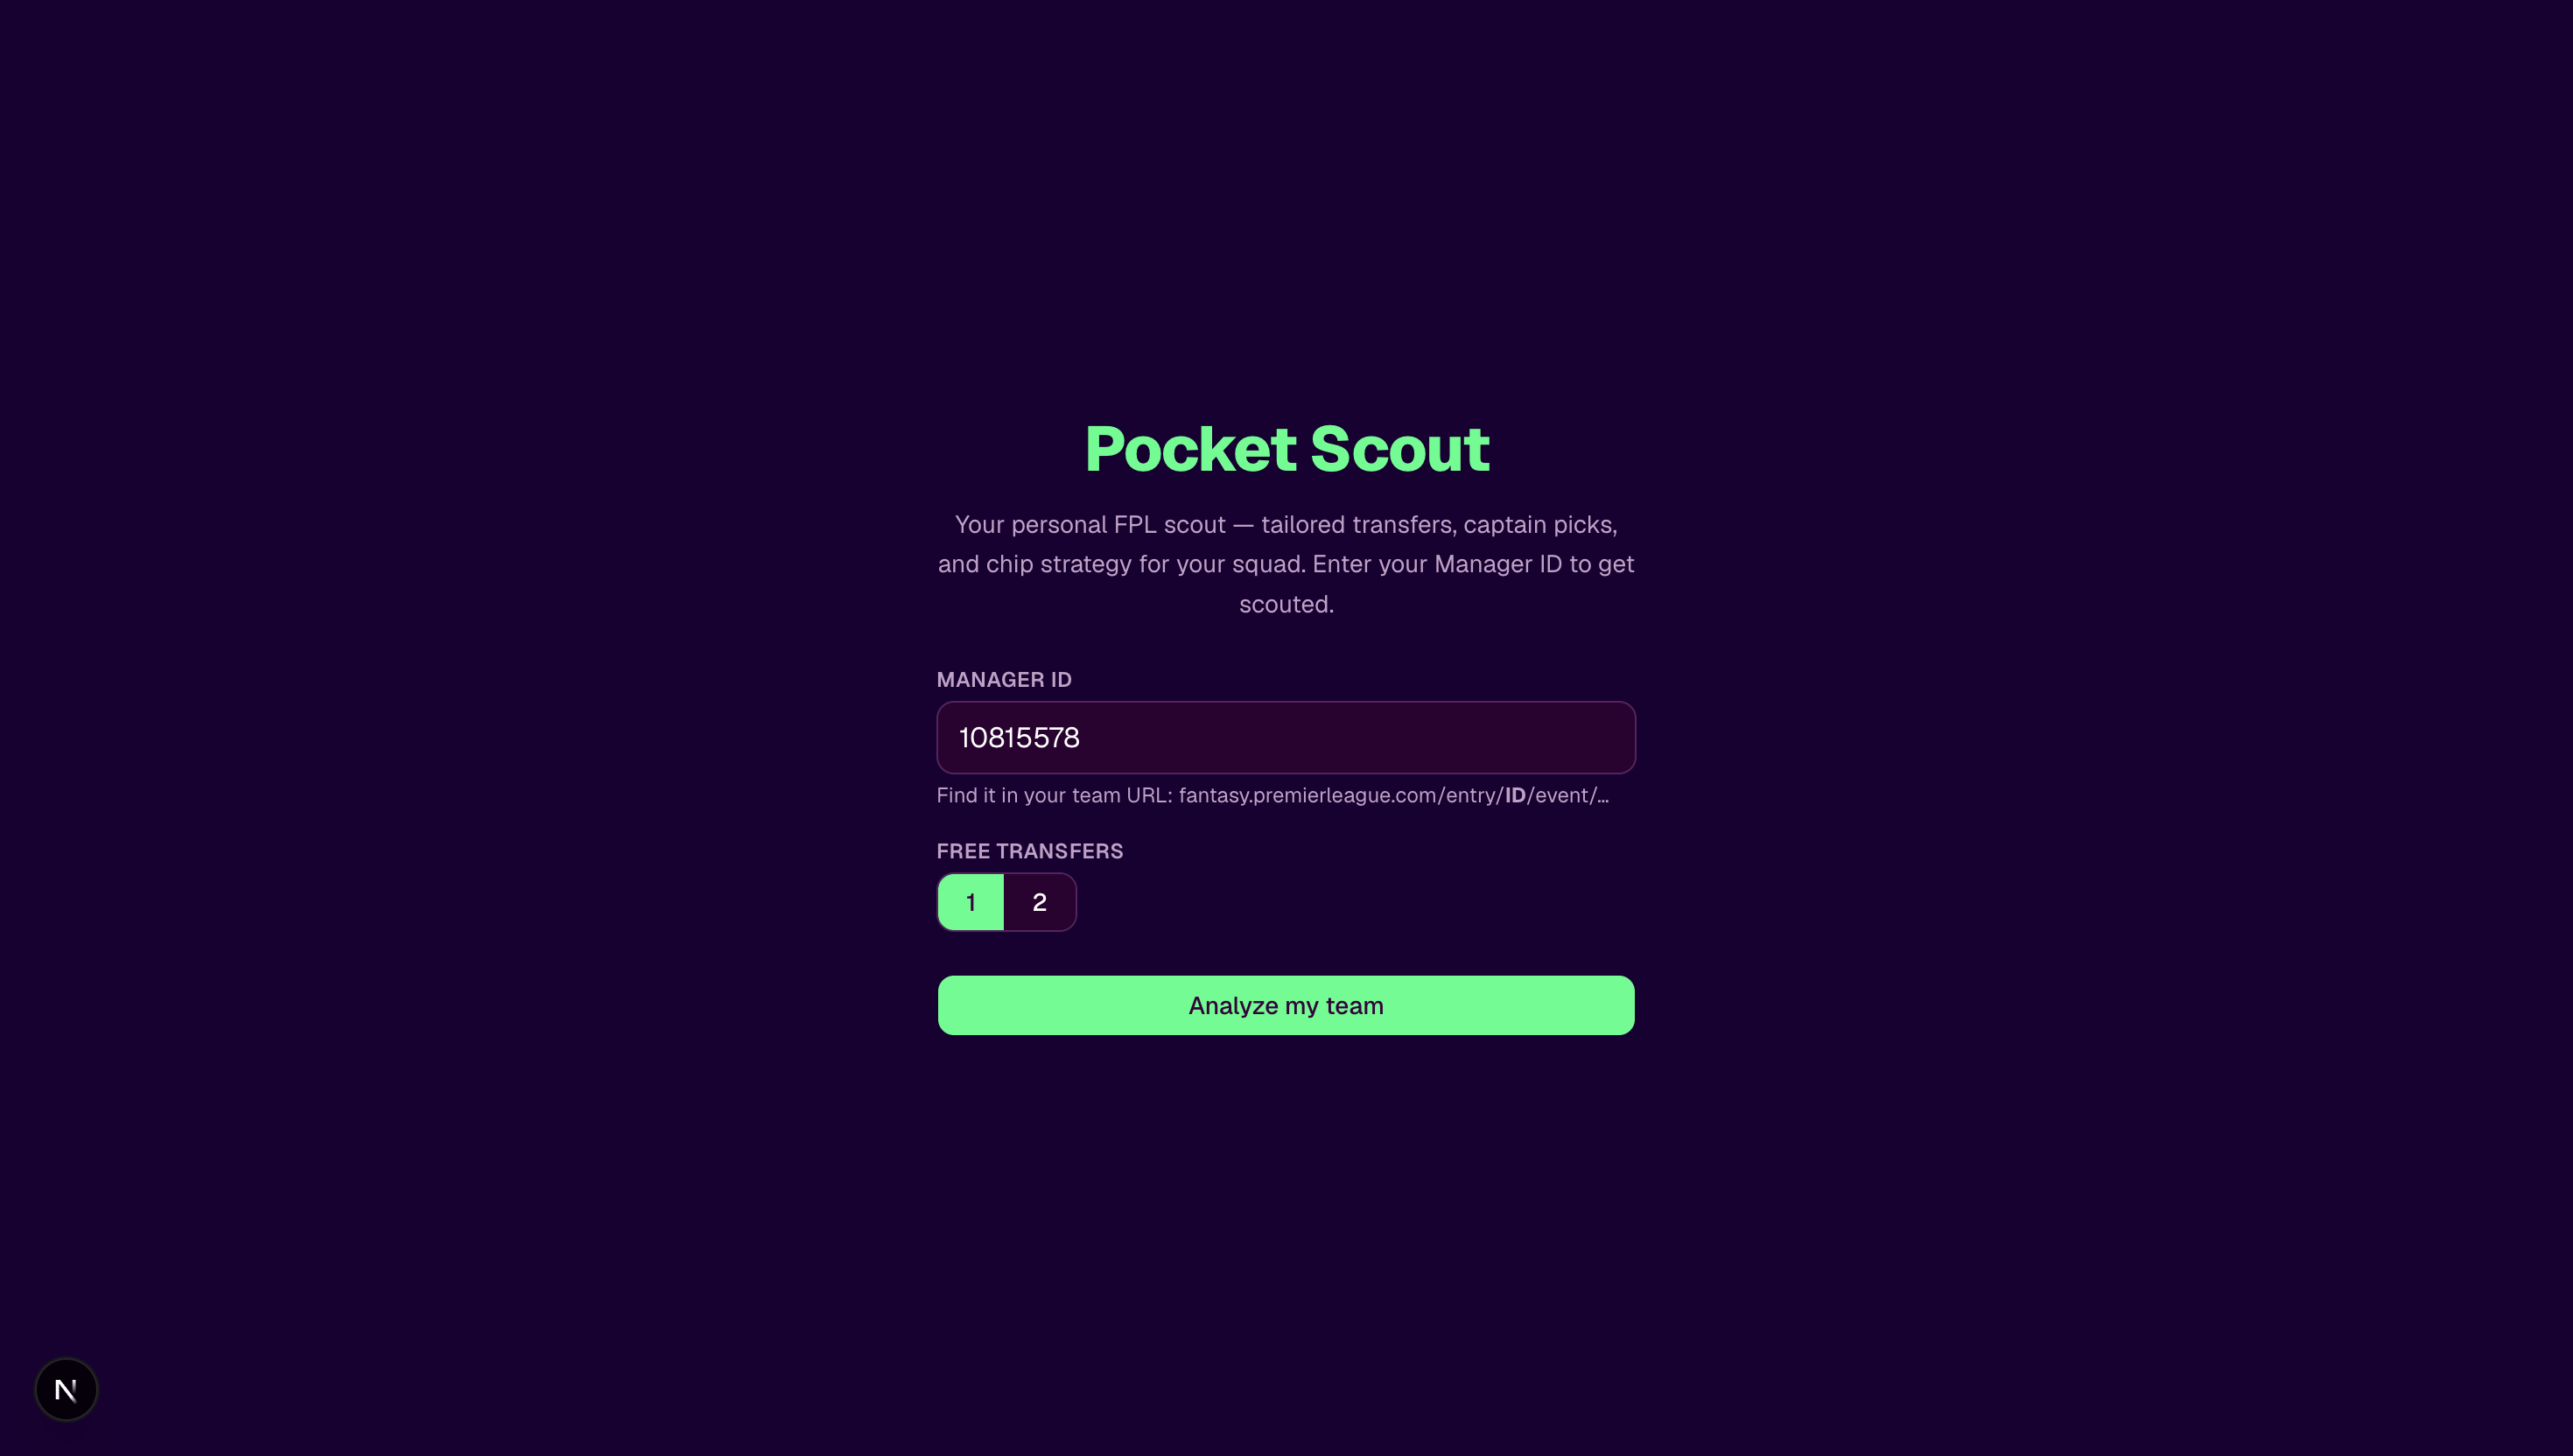
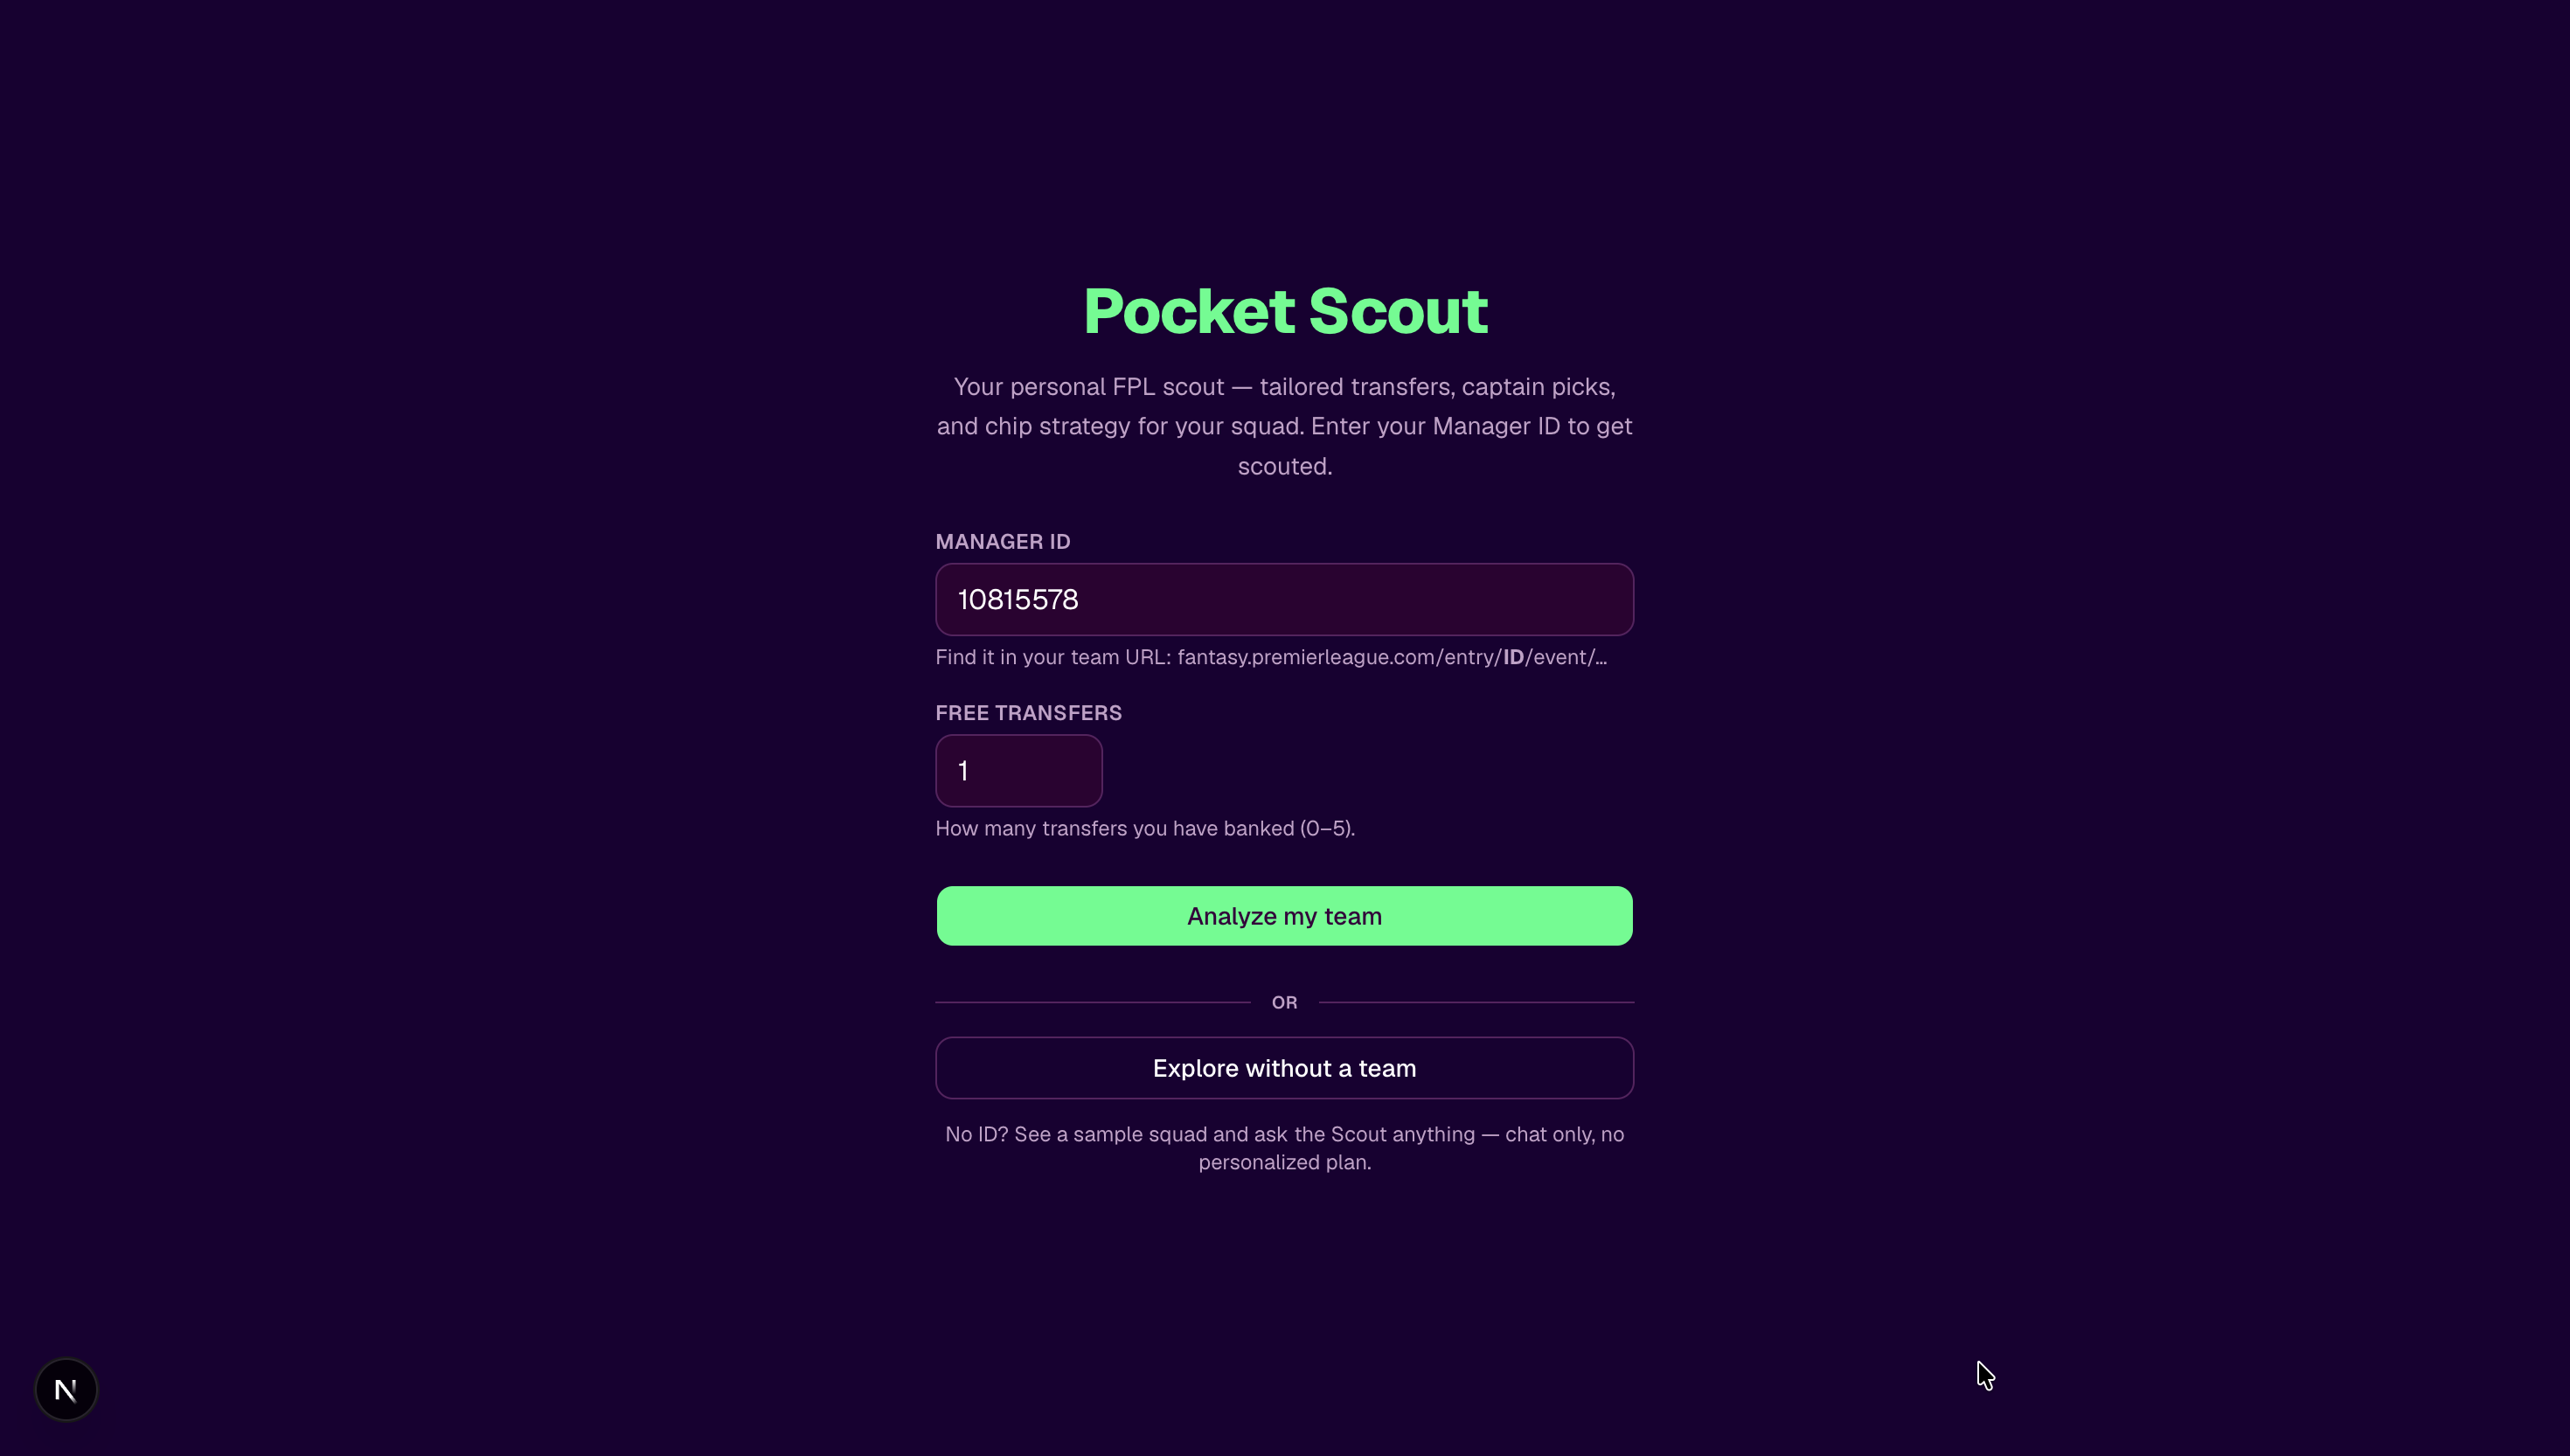
docs: reframe README as a product pitch; refresh for the final branch state
- README leads with the FPL manager's weekly pain → the promise of a
  personalized, educated, deterministic scout → the three differentiators
  (knows your 0–5 free transfers, holds rather than churns, shows its work).
- Reflect the shipped behaviour: 0–5 free transfers, up to N stacked moves,
  ep-native restructure chosen by an optimal allocation (drops the stale
  1-or-2 toggle / single-move / composite-restructure copy); test count → 331.
- ARCHITECTURE: optimizer paragraph rewritten to the optimal ep allocation
  (swaps cost 1, restructures cost 2; feasibility-checked) + FT 0–5 cache key.
- EVALUATION: the hold-gate currency now governs the whole N-move allocation.
- Screenshots refreshed: new hero/this-week/free-transfers/demo-mode, two
  scout-chat shots making the grounded "no hallucination, no prompt injection"
  point, plus login + player dialog; dropped chips/long-term/chat-continued.

Adds the docs-product-pitch OpenSpec change.

Changed region(s): [[0.3405, 0.1875, 0.65, 0.8125]]

diff --git a/openspec/changes/docs-product-pitch/design.md b/openspec/changes/docs-product-pitch/design.md
@@ -1,0 +1,61 @@
+# Design — docs as a product pitch
+
+## The story arc (README)
+Pitch it the way a PM would to an FPL player, in this order:
+
+1. **The pain (open here).** Every gameweek the same dread: one transfer, a captain pick, a chip you're
+   scared to waste — and the deadline ticking. So you crowd-source it: group chats, Reddit, ten tabs of
+   contradictory "templates," none of which know *your* squad, your bank, your free transfers, or your
+   chips. You make the call on a hunch and find out on Saturday.
+2. **The promise.** Pocket Scout is your **personal scout**: enter your manager ID and it reads *your*
+   team and tells you the highest-leverage move this week — transfers, captain, chips — and **explains
+   why**, like a pundit breaking down a game. It's **personalized** (your squad, your bank, the exact
+   number of free transfers you're holding), **educated** (grounded in expert FPL principles and the live
+   rules), and **deterministic** (the maths is reproducible — same squad, same answer — not an LLM
+   guessing).
+3. **How it's different (the wedge).** Three things generic tools don't do:
+   - **It knows your constraints.** Tell it you have 0–5 free transfers; it plans *within that budget* —
+     up to N stacked moves, or a sell-to-fund-a-dream **restructure** when that's the smarter play — and
+     **banks** a transfer rather than burn it on a marginal move.
+   - **It holds when holding is right.** Every move is judged in **expected points**; if nothing clears the
+     bar it tells you to roll — the opposite of the churn most tools encourage.
+   - **It shows its work.** A deterministic 0–10 model does the maths; the Scout chat fetches *real* numbers
+     via tools, so it never invents a stat or contradicts the panels.
+4. **The proof.** Eval-first: fit-from-data ranking (~0.33 → ~0.53), a replay that caught the optimizer
+   over-recommending (→ the hold gate), and a measured **no-ship**. Link `EVALUATION.md`.
+5. **Try it.** Quickstart + "Explore without a team."
+
+Keep the existing voice (Pocket Scout, pundit's eye) and the architecture-at-a-glance mermaid; the change
+is the **framing and the lead**, plus correctness.
+
+## Factual updates (reflect the final branch state)
+- **Free transfers.** Everywhere that says a 1-or-2 toggle → **a 0–5 field** ("tell it how many free
+  transfers you actually have"). The recommendation is **up to N stacked free moves** ("Make N free
+  transfers"), not a single move.
+- **Restructure.** Recast from a composite "net" to **expected points**, and note it's now **chosen by the
+  allocator** — a restructure enters the primary plan when its ep beats straight swaps; otherwise it's
+  listed as an alternative, priced against the **free transfers remaining** after the recommended moves.
+- **ARCHITECTURE.md** optimizer section (`~line 48`): describe the **optimal free-transfer allocation**
+  (swaps cost 1, restructures cost 2; max expected-points-net-of-banking within the FT budget; feasibility
+  for bank/3-per-club/distinct players) replacing "ranks candidate transfers … also computes restructure
+  chains". Cache key note already reads `…:freeTransfers:…` — clarify FT is 0–5.
+- **EVALUATION.md**: keep the hold-gate story; add a line that the same ep bar now governs **multi-move
+  allocation and restructures** (one consistent expected-points currency). Update the test count.
+- **Test count**: README "Vitest (NNN tests)" → current (**331**).
+
+## Screenshots (supplied by the user)
+Capture on one manager, same viewport as the existing GW38 set, ideally with **3+ free transfers** so the
+multi-move story shows. New/updated files (referenced as placeholders until supplied):
+- `fpl-advisor-hero.png` (**update**) — landing: verdict bar showing a multi-move summary
+  ("… +N more transfers"), the **FT field** with a value like 3, pitch + Ask The Scout.
+- `fpl-advisor-this-week.png` (**update**) — This Week with **"Make N free transfers"** (several
+  out→in lines) + Captaincy + Chip + the **Restructure** row reading "net pts gain +X · −N pts".
+- `fpl-advisor-free-transfers.png` (**new**) — close-up of the Header **0–5 free-transfer field**, ideally
+  showing the inline "Enter a value between 0 and 5" guard (the personalization + guardrail beat).
+- `fpl-advisor-demo-mode.png` — still the outstanding placeholder (Explore-without-a-team view).
+
+The rest of the set (chat-continued, player-dialog, chips, long-term, login) is reusable as-is.
+
+## Note
+Docs-only; no behaviour changes. The screenshots are the only blocker to a fully-final README, so the
+implementation lands the prose with placeholders and a clear "supply these" list.

diff --git a/openspec/changes/docs-product-pitch/specs/docs-product-pitch/spec.md b/openspec/changes/docs-product-pitch/specs/docs-product-pitch/spec.md
@@ -1,0 +1,49 @@
+## ADDED Requirements
+
+### Requirement: The README leads as a product pitch
+The README SHALL open by framing the FPL manager's weekly pain and Pocket Scout's promise — a personalized,
+educated, deterministic scout for the reader's own team — before the feature list and engineering detail,
+so a player (not only an engineer) understands the value in the first screen.
+
+#### Scenario: A player reads the top of the README
+- **WHEN** an FPL manager opens the README
+- **THEN** the first section names the pain (the weekly transfer/captain/chip decision, made on hunches and
+  conflicting takes) and the promise (a scout that reads *your* squad and explains *why*), and only then
+  proceeds to features and architecture
+
+#### Scenario: The pitch names the three differentiators
+- **WHEN** the pitch explains how Pocket Scout differs from generic tools
+- **THEN** it states that it plans within the manager's real constraints (0–5 free transfers, stacked moves
+  or a restructure), holds/banks rather than churns (expected-points gate), and shows its work (a
+  deterministic model plus tool-grounded chat that never invents numbers)
+
+### Requirement: The docs reflect the final state of this branch
+Every doc SHALL describe the shipped behaviour — a 0–5 free-transfer input, up to N stacked free moves, and
+an ep-native restructure chosen by an optimal allocation — with no stale references to a 1-or-2 toggle, a
+single-move recommendation, or a composite-scored restructure.
+
+#### Scenario: Free transfers are described as 0–5 with multi-move output
+- **WHEN** the docs describe the transfer input and recommendation
+- **THEN** they state the manager enters 0–5 free transfers and the Scout recommends up to that many stacked
+  moves (or a restructure), not a 1-or-2 toggle producing a single move
+
+#### Scenario: Restructure is described in expected points and as part of the allocation
+- **WHEN** the docs describe the Restructure feature
+- **THEN** they describe it in expected points, chosen into the primary plan when it out-projects straight
+  swaps, and otherwise listed as an alternative priced against the remaining free transfers
+
+#### Scenario: The architecture and eval docs and the test count are current
+- **WHEN** ARCHITECTURE.md and EVALUATION.md describe the optimizer and the test suite
+- **THEN** the optimizer section describes the optimal free-transfer allocation (swaps cost 1, restructures
+  cost 2; max expected-points-net within the budget; feasibility-checked), the eval doc notes the same ep
+  bar governs the allocation, and the stated test count matches the suite
+
+### Requirement: The screenshot set shows the new surfaces
+The image catalog SHALL reference screenshots that show this branch's features, and any not yet supplied
+SHALL be marked as placeholders so the docs are internally consistent.
+
+#### Scenario: New/updated screenshots are catalogued
+- **WHEN** the docs reference screenshots
+- **THEN** the catalog includes an updated hero (verdict bar with a multi-move summary and the 0–5 FT
+  field), an updated This Week ("Make N free transfers" plus the ep-native Restructure row), and a new
+  close-up of the 0–5 free-transfer field — each either present or clearly marked "to be supplied"

diff --git a/openspec/changes/docs-product-pitch/proposal.md b/openspec/changes/docs-product-pitch/proposal.md
@@ -1,0 +1,38 @@
+# Docs as a product pitch — tell the Pocket Scout story, at the final state of this branch
+
+## Why
+Two gaps. First, the docs predate this branch's transfer overhaul: the README/ARCHITECTURE/EVALUATION
+still describe a 1-or-2 free-transfer toggle, a single-move recommendation, and a composite-scored
+restructure — none of which is true now (0–5 free transfers, up to N stacked moves, and an ep-native
+restructure folded into an optimal allocation). Second, the README reads as a **feature list**, not a
+**pitch**. Every FPL manager feels the same weekly pain — *"is this the right move?"* — and reaches for
+group chats, Reddit, and ten open tabs of conflicting takes. Pocket Scout's whole reason to exist is to be
+the **personalized, evidence-grounded, deterministic scout** that answers that for *your* squad. The docs
+should sell that story to an FPL player, then back it with the engineering.
+
+## What changes
+- **`docs-product-pitch`** — reframe and refresh the docs:
+  1. **README as a product pitch.** Lead with the manager's pain point and the promise (a scout that knows
+     *your* team, explains *why*, and never churns for the sake of it), then "how it's different"
+     (deterministic maths + grounded reasoning, not vibes), then the proof. Keep it skimmable for a player,
+     not just an engineer.
+  2. **Reflect the final state.** Update every doc to this branch: enter **how many free transfers you
+     actually have (0–5)**; the Scout recommends **up to that many stacked moves**, or a **restructure**
+     (sell-to-fund-a-dream) when that out-projects straight swaps — all in **expected points**, with the
+     same hold/bank discipline. Fix the stale toggle/single-move/composite-restructure copy and the test
+     count.
+  3. **Refresh the screenshot set** to show the new surfaces (the 0–5 free-transfer field, a multi-transfer
+     "Make N free transfers" plan, the ep-native Restructure row). Screenshots are **supplied by the user**;
+     the docs reference them with placeholders until they land.
+
+## Impact
+- `README.md` (the pitch), `docs/ARCHITECTURE.md` (optimizer/allocation section, cache key, FT range),
+  `docs/EVALUATION.md` (transfer gate / allocation note, test count), `docs/images/README.md` (catalog).
+- Docs only — **no source changes**. The product behaviour is already shipped on this branch.
+
+## Out of scope
+- Any code/behaviour change; a re-recorded demo video (noted as a follow-up, as today).
+
+## Depends on
+The shipped branch work: `free-transfer-input-range`, `free-transfer-nmove-strategy`,
+`free-transfer-banking-cost-hygiene`, `restructure-ep-allocation` (all archived).

diff --git a/openspec/changes/docs-product-pitch/tasks.md b/openspec/changes/docs-product-pitch/tasks.md
@@ -1,0 +1,38 @@
+# Tasks — docs as a product pitch
+
+### Task 1: README — lead with the pitch
+**Capability:** docs-product-pitch
+- Rewrite the top of `README.md` to the story arc (pain → promise → the three differentiators → proof →
+  try it), keeping the Pocket Scout voice and the architecture-at-a-glance mermaid. The reader is an FPL
+  manager first, an engineer second.
+
+### Task 2: README — final-state correctness
+**Capability:** docs-product-pitch
+- Replace stale transfer copy: 1-or-2 toggle → **0–5 free transfers**; single move → **up to N stacked
+  moves**; composite restructure → **expected-points restructure chosen by the allocator** (otherwise an
+  alternative priced against the remaining FT).
+- Update the test count in "Tech stack" to the current number (331).
+
+### Task 3: ARCHITECTURE.md — optimizer / allocation
+**Capability:** docs-product-pitch
+- Rewrite the optimizer paragraph to describe the **optimal free-transfer allocation** (swaps cost 1,
+  restructures cost 2; maximize expected-points-net-of-banking within the FT budget; feasibility for
+  bank / 3-per-club / distinct players) and the ep-native restructure. Clarify the FT range (0–5) on the
+  cache key.
+
+### Task 4: EVALUATION.md — gate + allocation note, test count
+**Capability:** docs-product-pitch
+- Keep the hold-gate narrative; add a line that the same expected-points bar now governs **multi-move
+  allocation and restructures** (one consistent currency). Update any stale test count.
+
+### Task 5: Image catalog + screenshot request
+**Capability:** docs-product-pitch
+- Update `docs/images/README.md` and the README image references for the new/updated shots
+  (`fpl-advisor-hero.png` updated, `fpl-advisor-this-week.png` updated, `fpl-advisor-free-transfers.png`
+  new) plus the existing `fpl-advisor-demo-mode.png` placeholder — each present or marked "to be supplied".
+- Land the prose with placeholders; the user supplies the images (see the request list).
+
+### Task 6: Verify
+**Capability:** docs-product-pitch
+- Docs-only — no code gate. Proof-read for internal consistency (no stale toggle/single-move/composite
+  copy; links resolve; image references match the catalog). Confirm the README renders cleanly.

diff --git a/README.md b/README.md
@@ -2,9 +2,17 @@
 
 **An agentic Fantasy Premier League advisor with a Premier League pundit's eye — grounded in real data, not vibes.**
 
-Enter your FPL manager ID and Pocket Scout scouts your squad: transfer recommendations, captaincy, and chip strategy, each explained the way a post-match analyst breaks down a game. A deterministic scoring engine does the maths; a knowledge-grounded LLM layer does the reasoning; and a **conversation-first** agentic chat — which opens with a proactive, deadline-aware brief — answers "what if?".
+Every gameweek, millions of FPL managers face the same dread: a transfer to make (or two, or five), a captain to pick, a chip you're terrified to waste — and a deadline counting down. So you crowd-source it: group chats, Reddit, ten browser tabs of conflicting "templates," none of which know *your* squad, *your* bank, or how many free transfers you're actually holding. You make the call on a hunch and find out on Saturday.
+
+**Pocket Scout is your personal scout.** Enter your FPL manager ID and it reads *your* team and tells you the highest-leverage move this week — transfers, captaincy, chips — and **explains why**, the way a post-match analyst breaks down a game. It's **personalized** (your squad, your bank, the exact free transfers you hold), **educated** (grounded in expert FPL principles and the live rules), and **deterministic** (a reproducible engine does the maths — same squad, same answer — not an LLM guessing).
 
 ![Pocket Scout — the pitch, the Scout's proactive brief, and the breakdown](docs/images/fpl-advisor-hero.png)
+
+### Why it beats a group chat
+
+- **It knows your constraints.** Tell it how many free transfers you have — anywhere from **0 to 5** — and it plans *within that budget*: up to that many **stacked transfers**, or a sell-to-fund-a-dream **restructure** when that out-projects straight swaps. It even **banks** a transfer rather than burn it on a marginal move.
+- **It holds when holding is right.** Every move is judged in **expected points**; if nothing clears the bar, it tells you to roll — the opposite of the churn most tools nudge you toward.
+- **It shows its work.** A deterministic 0–10 model does the maths; the **Ask The Scout** chat fetches *real* numbers via tool calls, so it never invents a stat or contradicts the panels.
 
 ## Demo
 
@@ -18,12 +26,12 @@ Enter your FPL manager ID and Pocket Scout scouts your squad: transfer recommend
 
 ## What it does
 
-- **Glanceable verdict** — one always-visible line above the fold spans the pitch and chat: *"This week: João Pedro → Watkins · Captain Haaland · Play your Bench Boost"*, with an **Open FPL Transfers** deep link at the end. Derived deterministically and shown only once the decision is final (no mid-flight captain swap).
+- **Glanceable verdict** — one always-visible line above the fold spans the pitch and chat: *"This week: Sánchez → Raya +1 more transfer · Captain Haaland · Play your Bench Boost"*, with an **Open FPL Transfers** deep link at the end. Derived deterministically and shown only once the decision is final (no mid-flight captain swap).
 - **Pitch & ratings** — every squad player scored 0–10 by a position-aware composite model (anchored on FPL's expected points, corrected by form, fixtures, value, and underlying stats).
 - **Ask The Scout (the hero)** — the conversation is the primary surface: the Scout opens with a proactive, deadline-aware brief, then answers "what if?" via real tool calls (`simulate_transfer`, `score_player`, …), grounded in your committed plan **and the curated knowledge base**, so it never invents numbers or contradicts the panels.
 - **Act on it** — close the last mile: click any pitch player or transfer name for a **detail dialog** (age, nationality, form, last-week minutes/points, expected next points) with a **View on Premier League** link; the verdict bar hands you off to the FPL transfers screen.
 - **Breakdown** — a collapsible drawer with three tabs:
-  - *This Week* — clear sections in order: **Transfer · Captaincy · Chip · Restructure** — a transfer recommendation gated on *projected points* (it holds rather than churning), EO-aware captaincy, and the chip call in its own section (so a Bench Boost never hides your free transfer).
+  - *This Week* — clear sections in order: **Transfer · Captaincy · Chip · Restructure** — up to **N free transfers** ("Make 3 free transfers"), chosen by an expected-points allocation that weighs straight swaps against a **restructure** (sell-to-fund-a-dream) and **holds rather than churns**; EO-aware captaincy; and the chip call in its own section (so a Bench Boost never hides your free transfers). The Restructure section lists alternative dream-funding chains, each priced against the free transfers you have left.
   - *Long Term* — a multi-gameweek horizon.
   - *Chips* — an LLM-orchestrated chip plan (play now / hold / sequenced windows), grounded in chip principles and the deterministic candidate windows.
 - **Explore without a team** — no FPL ID required: Pocket Scout builds a **season-aware sample "dream team"** (best XV by FPL's projected points in-season, last-season returns off-season) and you can **Ask The Scout** anything. The chat is the whole point in this mode — there's no personalized transfer plan, and the chat is grounded in the current FPL rules so it never answers from stale knowledge.
@@ -68,20 +76,23 @@ It's built **eval-first**: a point-in-time backtest harness over 10 seasons of F
 
 ## Screenshots
 
-| Ask The Scout — a tool-grounded follow-up | Player detail dialog — click any player to inspect |
+| Tell it your situation — enter **0–5 free transfers** | This Week — **Make N free transfers** + the ep-native Restructure |
 |---|---|
-| ![Follow-up answer](docs/images/fpl-advisor-chat-continued.png) | ![Player detail dialog](docs/images/fpl-advisor-player-dialog.png) |
+| ![Free-transfers field](docs/images/fpl-advisor-free-transfers.png) | ![This Week breakdown](docs/images/fpl-advisor-this-week.png) |
 
-| This Week — Transfer · Captaincy · Chip · Restructure | Chips — the orchestrated chip plan |
+**Expert, grounded chat — no hallucinations, no prompt injection.** Ask The Scout reasons over *real* numbers it fetches via tool calls, stays anchored to your committed plan and the curated knowledge base, and refuses to be talked out of the facts — so its answers never drift from the panels or invent stats.
+
+| Ask The Scout — a tool-grounded answer citing real numbers | …and it holds the line against off-topic / injection attempts |
 |---|---|
-| ![This Week breakdown](docs/images/fpl-advisor-this-week.png) | ![Chips plan](docs/images/fpl-advisor-chips.png) |
+| ![Grounded Scout answer](docs/images/fpl-advisor-scout-chat-1.png) | ![Scout resists prompt injection](docs/images/fpl-advisor-scout-chat-2.png) |
+
+| Player detail dialog — click any player to inspect | Get scouted — enter your manager ID, or explore without one |
+|---|---|
+| ![Player detail dialog](docs/images/fpl-advisor-player-dialog.png) | ![Entry screen](docs/images/fpl-advisor-login.png) |
 
 | Explore without a team — the demo dream team + Scout chat |
 |---|
 | ![Demo mode — Explore without a team](docs/images/fpl-advisor-demo-mode.png) |
-<!-- PLACEHOLDER: add docs/images/fpl-advisor-demo-mode.png — the Explore view
-     (DEMO header, season banner, the sample XI with armbands/ratings, demo starter
-     chips). Captured on the same viewport as the rest of the set. -->
 
 ## Quickstart
 
@@ -111,11 +122,11 @@ docker compose up --build
 
 ## Tech stack
 
-Next.js 16 (App Router) · React 19 · TypeScript · Tailwind + shadcn · Anthropic Claude (Sonnet, with prompt caching) · Vitest (317 tests) · Docker + Caddy · the public FPL API.
+Next.js 16 (App Router) · React 19 · TypeScript · Tailwind + shadcn · Anthropic Claude (Sonnet, with prompt caching) · Vitest (331 tests) · Docker + Caddy · the public FPL API.
 
 ## Project notes
 
-- **Spec-driven:** built with [OpenSpec](https://github.com/Fission-AI/OpenSpec) — ~45 documented change proposals live under `openspec/changes/archive/` (the paper trail behind every feature and eval decision).
+- **Spec-driven:** built with [OpenSpec](https://github.com/Fission-AI/OpenSpec) — ~50 documented change proposals live under `openspec/changes/archive/` (the paper trail behind every feature and eval decision).
 - **Status:** feature-complete demo; a couple of changes are intentionally parked for the 2026-27 season (forward evaluation + cold-start hardening).
 
 ## Documentation

diff --git a/docs/images/README.md b/docs/images/README.md
@@ -2,20 +2,20 @@
 
 Screenshots and the demo video referenced from the root `README.md`.
 
-**Current set** (conversation-first UI) — all captured on the same manager (GW38) so the set reads
-as one coherent story.
+**Current set** (conversation-first UI) — capture on the same manager so the set reads as one coherent
+story. **For this branch, capture on a squad holding 3+ free transfers** so the multi-move plan shows.
 
 | File | Used as | Shows |
 |---|---|---|
-| `fpl-advisor-hero.png` | README hero | The landing: the **glanceable verdict bar** across the top (transfer · captain · chip + Open FPL Transfers), pitch (left) + Ask The Scout hero with the proactive brief and starter chips (right). |
-| `fpl-advisor-chat-continued.png` | Screenshots — tool-grounded answer | The chat after a follow-up ("Why Haaland over Anderson?") — a crisp, answer-first reply citing real numbers (verdict bar visible). The standalone opening-brief shot was dropped — the hero already shows the brief. |
-| `fpl-advisor-this-week.png` | Screenshots — This Week | Breakdown on **This Week**, now four sections in order: **Transfer · Captaincy · Chip · Restructure** (the chip call in its own section). |
+| `fpl-advisor-hero.png` | README hero | The landing: the **glanceable verdict bar** across the top (multi-move summary "… +N more transfers" · captain · chip + Open FPL Transfers), the header **0–5 free-transfer field**, pitch (left) + Ask The Scout hero with the proactive brief and starter chips (right). |
+| `fpl-advisor-free-transfers.png` | Screenshots — free transfers | A close-up of the header **free-transfer field (0–5)** with the inline **"Enter a value between 0 and 5"** guard — the personalization + guardrail beat. |
+| `fpl-advisor-scout-chat-1.png` | Screenshots — grounded chat | Ask The Scout giving a **tool-grounded answer citing real numbers**, anchored to the committed plan and knowledge base (no invented stats). |
+| `fpl-advisor-scout-chat-2.png` | Screenshots — grounded chat | The Scout **holding the line** — refusing to drift from the facts / panels on an off-topic or prompt-injection attempt. Together with `scout-chat-1` this makes the "expert, grounded, no-hallucination, no-injection" point. |
+| `fpl-advisor-this-week.png` | Screenshots — This Week | Breakdown on **This Week**: **Transfer · Captaincy · Chip · Restructure** — the Transfer headline reads **"Make N free transfers"** with several `out → in` lines, and the **Restructure** row reads **"net pts gain +X · −N pts"**. |
 | `fpl-advisor-player-dialog.png` | Screenshots — player dialog | The player detail dialog (opened from a pitch token / This-Week name): age, nationality + flag, form, last-week mins/pts, exp. next pts, and the **View on Premier League** button. |
-| `fpl-advisor-chips.png` | Screenshots — Chips | Breakdown on **Chips**: chips-left row + reasons list, play-now highlighted (no gameweek axis). |
-| `fpl-advisor-long-term.png` | spare | Breakdown on **Long Term** (final-GW empty state here — swap in a mid-season shot for a populated horizon). |
-| `fpl-advisor-login.png` | spare | The entry screen (manager-ID form, now with the "Explore without a team" CTA). |
-| `fpl-advisor-demo-mode.png` | Screenshots — demo mode | **⏳ PLACEHOLDER — to be supplied.** The Explore-without-a-team view: the **DEMO** header badge, the season-aware banner ("dream XV — built from last season's returns"), the sample XI with armbands + 0–10 ratings, and the demo starter chips. Capture on the same viewport as the rest of the set. |
-| `fpl-advisor-demo.mov` | demo video — see note below | Flow: squad load → pitch → proactive brief → breakdown tabs → Ask The Scout. **Stale for this version** (predates the verdict bar / dialog) — a re-record is a noted follow-up. |
+| `fpl-advisor-login.png` | Screenshots — entry | The entry screen: manager-ID form with the **"Explore without a team"** CTA. |
+| `fpl-advisor-demo-mode.png` | Screenshots — demo mode | The Explore-without-a-team view: the **DEMO** header badge, the season-aware banner ("dream XV — built from last season's returns"), the sample XI with armbands + 0–10 ratings, and the demo starter chips. |
+| `fpl-advisor-demo.mov` | demo video — see note below | Flow: squad load → pitch → proactive brief → breakdown tabs → Ask The Scout. **Not committed** (supply via GitHub's web UI for an inline player) and a re-record for this UI is a noted follow-up. |
 
 ## Demo video — inline player on GitHub
 

diff --git a/docs/ARCHITECTURE.md b/docs/ARCHITECTURE.md
@@ -25,7 +25,7 @@ flowchart TB
 ```
 
 - **Base phase** (`/api/plan/base`) — deterministic only. Builds the squad analysis and composite scores; returns the pitch. Fast, no LLM. The client renders the **glanceable verdict bar** above the fold from the merged plan once insights land (so the captain/transfer are final, never swapped mid-flight), with an **Open FPL Transfers** deep link that hands off to the FPL transfers screen.
-- **Insights phase** (`/api/plan/insights`) — runs the optimizer + captain logic, then the LLM syntheses. Cached per `manager:gw:freeTransfers:horizon`.
+- **Insights phase** (`/api/plan/insights`) — runs the optimizer + captain logic, then the LLM syntheses. Cached per `manager:gw:freeTransfers:horizon` (`freeTransfers` is the 0–5 count the manager declares).
 - **Player detail** (`/api/player/[id]`) — a lightweight, on-demand route behind the **player dialog** (opened from a pitch token or a This-Week transfer name). It reuses the warm bootstrap + element-summary caches the insights phase already populated, so for an analyzed player it issues **no new FPL request**; returns name, age, nationality, form, last-week minutes/points, and expected next points, plus the `opta_code` that builds the **View on Premier League** link.
 - **Demo mode** (`demo=1`, no manager ID) — for an ID-less visitor, `buildDemoSquad` (`lib/demo/`) synthesizes a **season-aware** sample "dream team": a budget-valid (≤£100m, ≤3/club, 2-5-5-3) XV ranked by FPL's `ep_next` in-season, or by last-season points off-season (the season is decided by the **gameweek calendar**, not `ep_next` presence — the summer feed still carries stale `ep_next`). The same routes serve it: base returns the pitch + ratings + deterministic captain; insights run **captaincy only** (the optimizer — transfers, long-term horizon, chips — is never invoked); the brief and chat run with demo grounding. The deterministic spine survives an LLM outage, and the opening brief falls back to a deterministic welcome.
 
@@ -45,7 +45,7 @@ total = squash( Σ wᵢ · signalᵢ  +  trendAdj + llmAdj − suspensionPenalty
 - A strictly-monotonic **logistic squash** maps the raw score into (0,1) for the "/10" display without tie-collapsing at the bounds.
 - Details + how the weights were derived: **[EVALUATION.md](EVALUATION.md)**.
 
-**Optimizer** (`lib/optimizer/`) — ranks candidate transfers, but the *go/hold* decision is gated on **projected points**: recommend a transfer only if `Δep = in.epNext − out.epNext` clears a bar (≈1.5 free, >4 for a hit); otherwise hold. Also computes restructure chains, a 5-GW horizon, and chip **candidate windows** (DGW/BGW-aware, plus a use-it-or-lose-it last-call on the half deadline). Those windows are deterministic candidates; an LLM **chip orchestrator** (`chip-orchestrator.ts`), grounded in `chips.md`, turns them into the committed chip plan — play-now / hold / sequenced — that both This Week and the Chips tab read (a single source of truth).
+**Optimizer** (`lib/optimizer/`) — plans the free transfers by an **optimal allocation denominated in projected points**. The manager declares **0–5 free transfers**; each candidate move is a straight swap (1 transfer) or a **restructure** (2 transfers — downgrade a funder to free cash for an otherwise-unaffordable "dream" upgrade), and a bounded search (`allocate.ts`) picks the conflict-free set that maximizes expected points **net of the banking opportunity** within that budget — feasibility-checked for bank, 3-per-club, and distinct players. The *go/hold* decision falls out of the same currency: a move is taken only if `Δep = in.epNext − out.epNext` clears its bar (≈1.5 per free transfer, 4 per hit); otherwise the transfer is **banked/held** rather than churned. Restructures not chosen into the plan are surfaced as alternatives, priced against the free transfers remaining after the recommended moves. The optimizer also computes a 5-GW horizon and chip **candidate windows** (DGW/BGW-aware, plus a use-it-or-lose-it last-call on the half deadline). Those windows are deterministic candidates; an LLM **chip orchestrator** (`chip-orchestrator.ts`), grounded in `chips.md`, turns them into the committed chip plan — play-now / hold / sequenced — that both This Week and the Chips tab read (a single source of truth).
 
 **Captain** (`lib/captain/`) — a separate ceiling-weighted model (explosiveness, set-pieces, fixture, minutes certainty), with template-vs-differential awareness driven by the manager's rank.
 

diff --git a/docs/EVALUATION.md b/docs/EVALUATION.md
@@ -44,6 +44,7 @@ So the app's captaincy modestly **beat the human** over a season and outscored e
 
 - **A points-based hold gate.** Recommend a transfer only if its projected gain (`Δep = in − out`) clears a bar — **~1.5 pts** for a free transfer, **>4** for a hit (the exact cost of a hit). The bar was *derived*: the data's noise floor is ~0.5 pts, and the free-transfer opportunity cost pushes it to ~1.5 — which also matches the community heuristic.
 - **Hold when `ep_next` is unavailable**, because transfers chosen on the composite alone are negative-EV.
+- **One currency, across the whole plan.** That same expected-points bar now governs the full free-transfer allocation: with 0–5 free transfers, the optimizer picks the max-ep set of straight swaps (1 transfer) and **restructures** (2 transfers) net of the ~1.5-pt banking opportunity, so a marginal move is banked and a restructure is only taken when it out-projects the swaps it would replace — the hold discipline generalized from one move to N.
 
 Result: the over-transferring collapsed from **34/35 → 0/35**, and the net-loss disappeared.
 